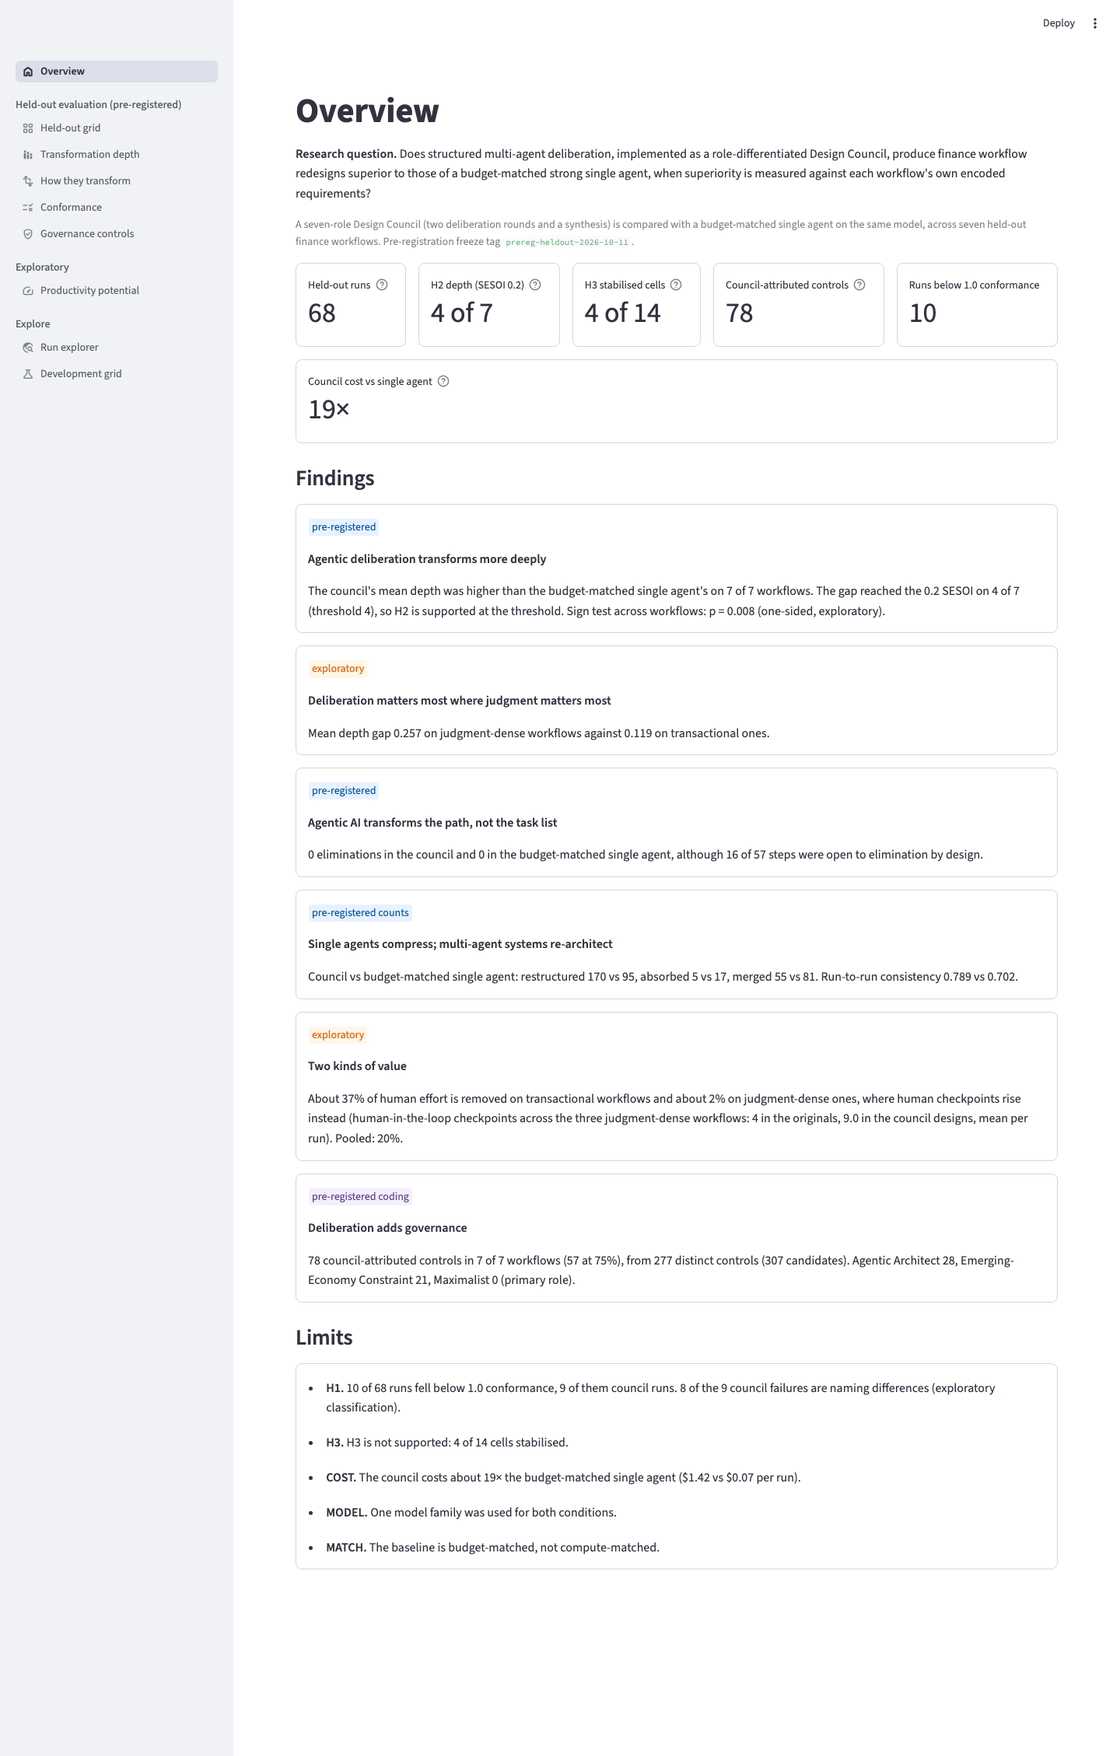
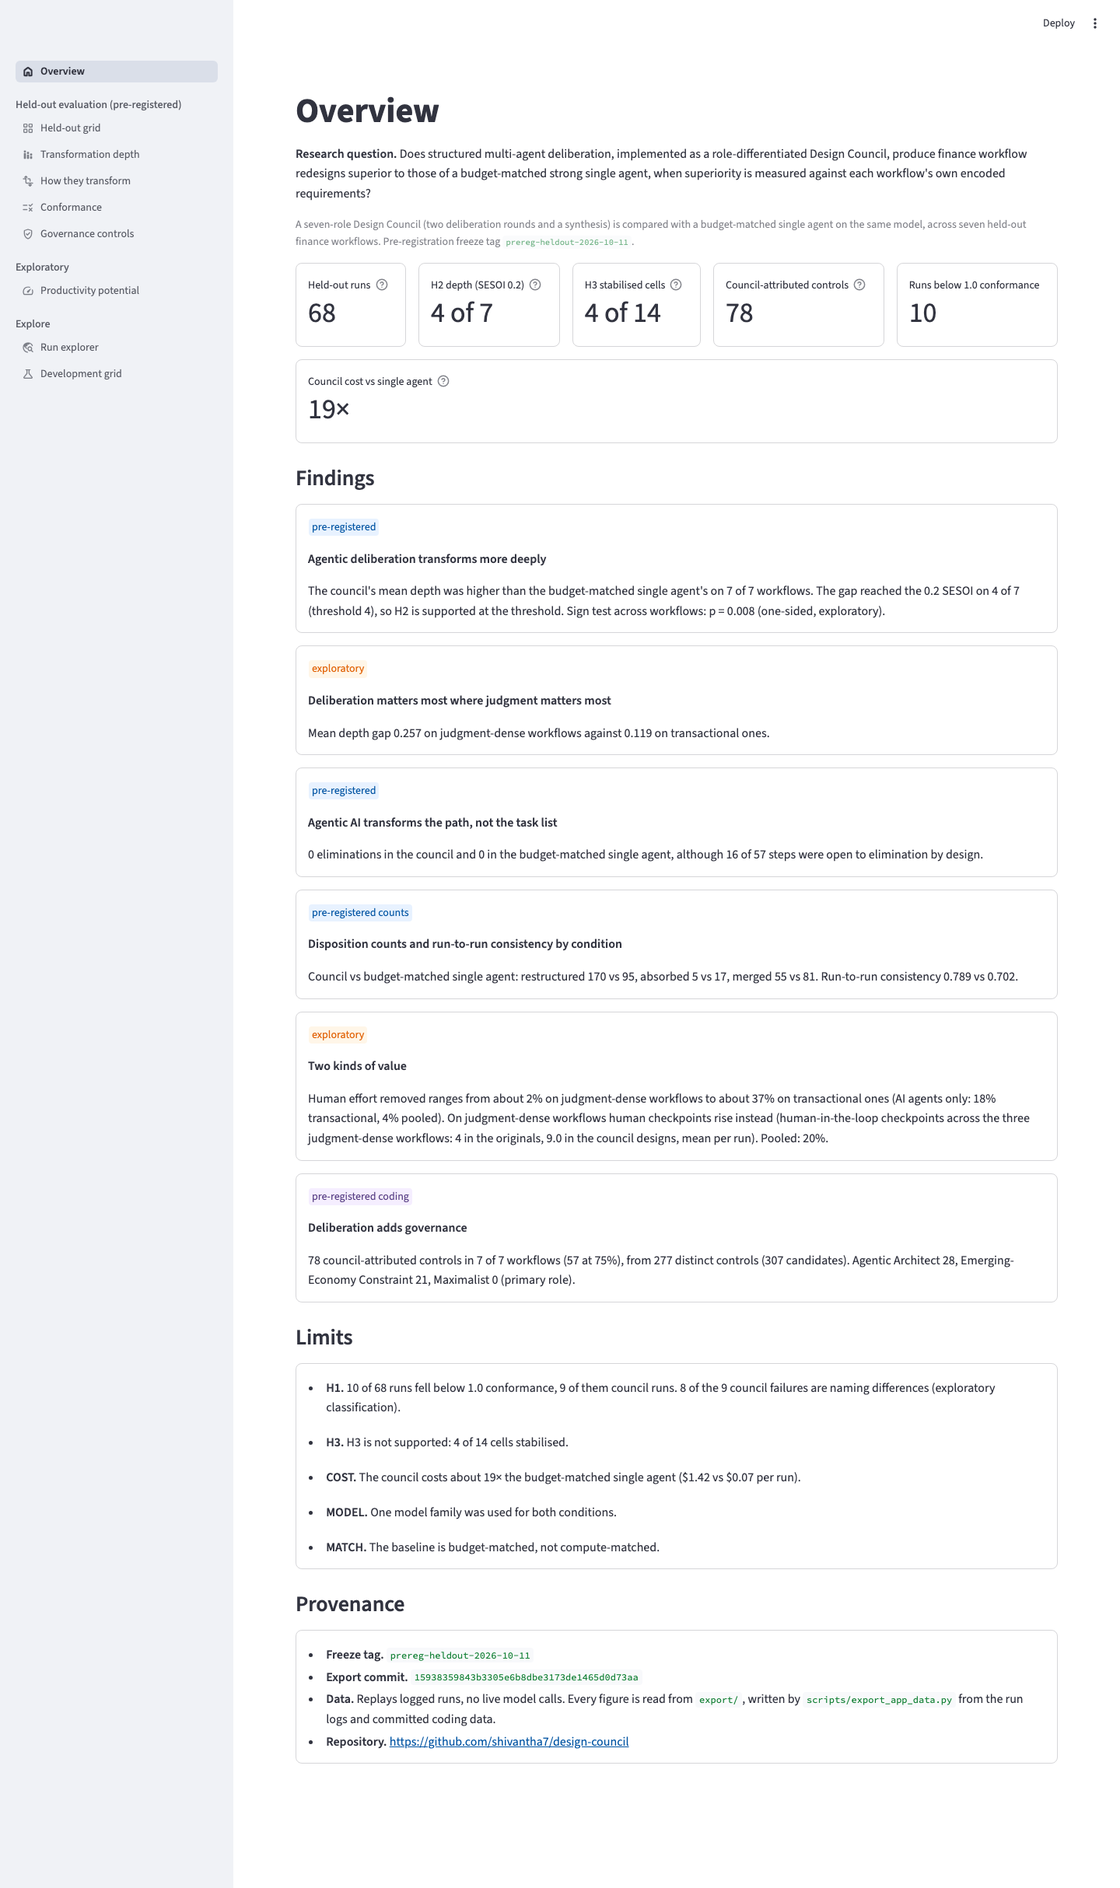
Results app: align with the final dissertation; surface committed analyses
1. export/index.json wording: F4 retitled "Disposition counts and run-to-run
   consistency by condition". F5 leads with the range (about 2% judgment-dense
   to about 37% transactional) with the AI-agents-only figures (18%
   transactional, 4% pooled) beside it. No em dashes (test added). The
   pre-registered/exploratory split against section 8.1 of the dissertation is
   NOT yet applied: the dissertation docx was not available in the repo.
2. Depth page: bootstrap panel for H2 under resampling (bootstrap_h2.json) and
   a recorded-vs-verified depth table with label check rates
   (depth_verification.json). Both marked exploratory. 14-row tables shown in
   full.
3. Governance page: symmetric control counts and length-normalised counts
   (controls_symmetric_length.json) beside the council-attributed table.
4. Overview: provenance block (freeze tag, export commit, "replays logged runs,
   no live model calls", repo URL).
5. scripts/export_app_data.py re-run. The three analysis files written by
   their own scripts are now carried over byte for byte (previously the
   export's rmtree would have deleted them); documented in SCHEMA.md and
   tested. heldout_runs unchanged at 68, held-out and dev run-id lists
   identical, no sequential run picked up, all results files byte-identical.
   Note: export_commit records 1593835, the parent of this commit; the export
   was produced from this commit's working tree before committing.
[…]

diff --git a/scripts/export_app_data.py b/scripts/export_app_data.py
@@ -56,6 +56,14 @@ CONDITIONS = ["council", "baseline"]
 DISPOSITIONS = ["eliminated", "absorbed", "merged", "restructured", "retained"]
 PROBE = "model_resolution_probe"
 EXCERPT = 600
+REPO_URL = "https://github.com/shivantha7/design-council"  # shown on the overview
+# Written into export/results/ by their own analysis scripts (no model calls), not by this one.
+# They are carried over byte for byte so that re-running this export does not delete them.
+CARRIED = {
+    "results/bootstrap_h2.json": "scripts/bootstrap_h2.py",
+    "results/depth_verification.json": "scripts/verify_dispositions.py",
+    "results/controls_symmetric_length.json": "scripts/controls_symmetric_length.py",
+}
 
 
 def load_script(name: str):
@@ -210,8 +218,12 @@ def main() -> int:
     parser.add_argument("--runs-root", type=Path, default=RUNS_ROOT)
     args = parser.parse_args()
     out = args.out
+    carried = {rel: (REPO_ROOT / "export" / rel).read_bytes() for rel in CARRIED}
     if out.exists():
         shutil.rmtree(out)
+    for rel, data in carried.items():
+        (out / rel).parent.mkdir(parents=True, exist_ok=True)
+        (out / rel).write_bytes(data)
 
     eff = load_script("efficiency_heldout")
     prod = load_script("productivity_heldout")
@@ -376,7 +388,8 @@ def main() -> int:
     fi = tables["fill_ins"]
     x3, x4, x5 = tables["x3_depth"], tables["x4_dispositions"], tables["x5_stabilisation"]
     pp = productivity["variants"][PRIMARY]["pooled"]
-    gc = json.loads((out / "results" / "governance_controls.json").read_text())
+    ao = productivity["variants"][AGENTIC_ONLY]["pooled"]
+    gc =json.loads((out / "results" / "governance_controls.json").read_text())
     fails = json.loads((out / "results" / "conformance_failures.json").read_text())["failures"]
     council_fails = [f for f in fails if f["condition"] == "council"]
     deeper = sum(1 for r in x3 if r["gap"] > 0)
@@ -408,17 +421,18 @@ def main() -> int:
          "text": f"{x4['council']['eliminated']} eliminations in the council and {x4['baseline']['eliminated']} in the "
                  f"budget-matched single agent, although {open_steps} of {total_steps} steps were open to elimination "
                  f"by design."},
-        {"id": "F4", "status": "pre-registered counts", "title": "Single agents compress; multi-agent systems re-architect",
+        {"id": "F4", "status": "pre-registered counts", "title": "Disposition counts and run-to-run consistency by condition",
          "text": f"Council vs budget-matched single agent: restructured {x4['council']['restructured']} vs "
                  f"{x4['baseline']['restructured']}, absorbed {x4['council']['absorbed']} vs {x4['baseline']['absorbed']}, "
                  f"merged {x4['council']['merged']} vs {x4['baseline']['merged']}. Run-to-run consistency "
                  f"{cons['council']:.3f} vs {cons['baseline']:.3f}."},
         {"id": "F5", "status": "exploratory", "title": "Two kinds of value",
-         "text": f"About {pct(pp['transactional']['pi'])} of human effort is removed on transactional workflows and "
-                 f"about {pct(pp['judgment-dense']['pi'])} on judgment-dense ones, where human checkpoints rise instead "
-                 f"(human-in-the-loop checkpoints across the three judgment-dense workflows: {hitl_orig} in the "
-                 f"originals, {hitl_council:.1f} in the council designs, mean per run). "
-                 f"Pooled: {pct(pp['all']['pi'])}."},
+         "text": f"Human effort removed ranges from about {pct(pp['judgment-dense']['pi'])} on judgment-dense workflows "
+                 f"to about {pct(pp['transactional']['pi'])} on transactional ones (AI agents only: "
+                 f"{pct(ao['transactional']['pi'])} transactional, {pct(ao['all']['pi'])} pooled). On judgment-dense "
+                 f"workflows human checkpoints rise instead (human-in-the-loop checkpoints across the three "
+                 f"judgment-dense workflows: {hitl_orig} in the originals, {hitl_council:.1f} in the council designs, "
+                 f"mean per run). Pooled: {pct(pp['all']['pi'])}."},
         {"id": "F6", "status": "pre-registered coding", "title": "Deliberation adds governance",
          "text": f"{len(passing)} council-attributed controls in {wf_with_pass} of 7 workflows "
                  f"({sum(c['strict_75'] for c in passing)} at 75%), from {len(controls)} distinct controls "
@@ -443,6 +457,7 @@ def main() -> int:
     index = {
         "export_commit": commit,
         "prereg_tag": started.get("prereg_tag"),
+        "repo_url": REPO_URL,
         "research_question": ("Does structured multi-agent deliberation, implemented as a role-differentiated "
                               "Design Council, produce finance workflow redesigns superior to those of a "
                               "budget-matched strong single agent, when superiority is measured against each "
@@ -482,6 +497,7 @@ bytes. JSON files use sorted keys. Floats are rounded to 6 decimals.
 
 ## index.json
 - `export_commit`: git commit the export was made from. `prereg_tag`: freeze tag of the held-out set.
+  `repo_url`: public repository URL (null until published).
 - `research_question`: verbatim from the dissertation.
 - `sets.heldout-v1`: `label`, `commit` (pinned run commit), `requested_model`, `workflows` (7 ids),
   `runs` (68 run ids), `cells[]` = {`workflow_id`, `condition`, `run_ids` in rep order, `stop_decision`
@@ -541,6 +557,22 @@ council_present, council_n, baseline_present, outcome, strict_75, quote, quote_r
 ## results/dev_grid.json
 v1 development grid per workflow x condition: n, run_ids, depth mean/min/max, conformance mean,
 disposition counts, consistency, mean output tokens.
+
+## Carried over from separate analysis scripts (exploratory, no model calls)
+Not computed by this script. Each is written by its own script into `export/results/` and
+copied here byte for byte, so these files keep that script's formatting (not sorted keys,
+floats unrounded).
+- `results/bootstrap_h2.json` (`scripts/bootstrap_h2.py`, `docs/BOOTSTRAP_H2.md`): H2 rule under
+  resampling of runs within cells. `B`, `seed`, `sesoi`, `need`, and for `reported` (depth as
+  recorded) and `verified` (verified depth): `point_gaps`, `point_pass`, `bootstrap_pass_rate`,
+  `per_workflow_pass_prob`, `gap_95ci`, `count_distribution`, `loo_pass_rate`, `loo_fail_cases`.
+- `results/depth_verification.json` (`scripts/verify_dispositions.py`, `docs/DEPTH_VERIFICATION.md`):
+  disposition labels checked against the TSS. `by_condition` and `overall` label checks, and
+  `cells` ("<workflow>|<condition>": n, depth_reported_mean, depth_verified_mean).
+- `results/controls_symmetric_length.json` (`scripts/controls_symmetric_length.py`,
+  `docs/CONTROLS_SYMMETRIC_LENGTH.md`): the section 6 rule applied in both directions
+  (`symmetric` per workflow) and control counts per TSS length (`length_by_condition`,
+  `length_by_workflow`, `runs`).
 """
 
 

diff --git a/app_pages/depth.py b/app_pages/depth.py
@@ -1,7 +1,7 @@
 import altair as alt
 import streamlit as st
 
-from app_lib.export_data import frame, result
+from app_lib.export_data import exploratory_note, frame, result
 
 t = result("heldout_tables")
 fi = t["fill_ins"]
@@ -50,5 +50,67 @@ st.caption(f"{fi['h3_stabilised_cells']} of 14 cells stabilised against a thresh
 st.dataframe(frame([{"Cell": f"{r['workflow_id']} {r['condition']}", "After 3": r["after_3"],
                      "After 4": r["after_4"], "After 5": float("nan") if r["after_5"] is None else r["after_5"], "Stabilised": r["stabilised"],
                      "Consistency": r["consistency"]} for r in t["x5_stabilisation"]]),
-             hide_index=True, column_config={k: st.column_config.NumberColumn(format="%.3f")
-                                             for k in ("After 3", "After 4", "After 5", "Consistency")})
+             hide_index=True, height="content",
+             column_config={k: st.column_config.NumberColumn(format="%.3f")
+                            for k in ("After 3", "After 4", "After 5", "Consistency")})
+
+st.subheader("H2 under resampling", anchor=False)
+exploratory_note("Bootstrap of the H2 decision rule: runs resampled with replacement within each cell, and the "
+                 "rule (gap ≥ 0.2 on at least 4 of 7 workflows) re-applied to every replicate.")
+b = result("bootstrap_h2")
+st.caption(f"{b['B']:,} replicates, seed {b['seed']}. 'Recorded' uses depth as logged; 'verified' counts only "
+           "non-retained labels that the TSS itself bears out (next section). Leave-one-run-out deletes each of "
+           "the 68 runs in turn.")
+boot_rec, boot_ver, loo_rec, loo_ver = st.columns(4)
+for col, key in ((boot_rec, "reported"), (boot_ver, "verified")):
+    col.metric(f"Bootstrap, {'recorded' if key == 'reported' else 'verified'}",
+               f"{b[key]['bootstrap_pass_rate']:.1%}", border=True,
+               help=f"Point estimate: {b[key]['point_pass']} of 7 workflows meet the SESOI")
+for col, key in ((loo_rec, "reported"), (loo_ver, "verified")):
+    col.metric(f"Leave one out, {'recorded' if key == 'reported' else 'verified'}",
+               f"{b[key]['loo_pass_rate']:.1%}", border=True,
+               help=f"{len(b[key]['loo_fail_cases'])} of 68 single-run deletions make H2 fail")
+
+dist = frame([{"depth": "recorded" if key == "reported" else "verified", "workflows meeting SESOI": int(k),
+               "share of replicates": v}
+              for key in ("reported", "verified") for k, v in b[key]["count_distribution"].items()])
+bars = alt.Chart(dist).mark_bar().encode(
+    x=alt.X("workflows meeting SESOI:O", title="Workflows meeting the SESOI in a replicate",
+               axis=alt.Axis(labelAngle=0)),
+    xOffset="depth:N", y=alt.Y("share of replicates:Q", axis=alt.Axis(format="%"), title="Share of replicates"),
+    color=alt.Color("depth:N", scale=alt.Scale(domain=["recorded", "verified"]), title="Depth"),
+    tooltip=["depth", "workflows meeting SESOI", alt.Tooltip("share of replicates:Q", format=".1%")])
+st.altair_chart(bars, width="stretch")
+st.caption(f"H2 passes in a replicate when at least {b['need']} workflows meet the SESOI.")
+
+st.dataframe(frame([{"Workflow": wf,
+                     **{f"{'Recorded' if key == 'reported' else 'Verified'} {col}": val
+                        for key in ("reported", "verified")
+                        for col, val in (("gap", b[key]["point_gaps"][wf]),
+                                         ("95% interval", "[{:.3f}, {:.3f}]".format(*b[key]["gap_95ci"][wf])),
+                                         ("P(gap ≥ 0.2)", b[key]["per_workflow_pass_prob"][wf]))}}
+                    for wf in order]),
+             hide_index=True, column_config={k: st.column_config.NumberColumn(format="%.3f") for k in
+                                             ("Recorded gap", "Verified gap")}
+             | {k: st.column_config.NumberColumn(format="%.2f") for k in
+                ("Recorded P(gap ≥ 0.2)", "Verified P(gap ≥ 0.2)")})
+
+st.subheader("Recorded and verified depth", anchor=False)
+exploratory_note("Each non-retained disposition label was checked deterministically against the TSS (actor, "
+                 "inputs or position changed). Verified depth counts only the labels that check out.")
+v = result("depth_verification")
+st.caption(f"{v['runs_ok']} successful runs, {v['labels_total']} baseline-step labels; the {v['runs_failed_excluded']} "
+           "failed attempts are excluded from every depth figure.")
+st.dataframe(frame([{"Workflow": k.split("|")[0], "Condition": k.split("|")[1], "Runs": c["n"],
+                     "Depth (recorded)": c["depth_reported_mean"], "Depth (verified)": c["depth_verified_mean"],
+                     "Difference": round(c["depth_verified_mean"] - c["depth_reported_mean"], 3)}
+                    for k, c in sorted(v["cells"].items(), key=lambda kv: order.index(kv[0].split("|")[0]))]),
+             hide_index=True, height="content",
+             column_config={k: st.column_config.NumberColumn(format="%.3f") for k in
+                            ("Depth (recorded)", "Depth (verified)", "Difference")})
+st.dataframe(frame([{"Condition": cond, "Label": lab, "Labels": s["n"], "Verified": s.get("verified"),
+                     "Rate": s.get("rate")}
+                    for cond in ("council", "baseline") for lab, s in v["by_condition"][cond].items()]),
+             hide_index=True, height="content", column_config={"Rate": st.column_config.NumberColumn(format="%.3f")})
+st.caption("For 'retained', verified means consistent: no change in actor, inputs or position. Details in "
+           "docs/DEPTH_VERIFICATION.md.")

diff --git a/app_pages/governance.py b/app_pages/governance.py
@@ -1,7 +1,7 @@
 import altair as alt
 import streamlit as st
 
-from app_lib.export_data import frame, label, result, role
+from app_lib.export_data import exploratory_note, frame, label, result, role
 
 g = result("governance_controls")
 controls = g["controls"]
@@ -30,6 +30,40 @@ with right:
         tooltip=["role", "primary", "any"]), width="stretch")
     st.caption("Primary = first attributed role of the lowest-numbered member candidate. 'Any' counts every role "
                "that proposed the control.")
+
+st.subheader("Symmetric count and length", anchor=False)
+exploratory_note("The section 6 rule applied in both directions, and control counts set against TSS length.")
+sl = result("controls_symmetric_length")
+sym = sl["symmetric"]
+st.dataframe(frame([{"Workflow": wf, "Coded": s["final"], "Council-attributed": s["council_pass"],
+                     "Baseline-attributed": s["baseline_pass"], "Baseline only (any run)": s["baseline_any_no_council"],
+                     "Council only (any run)": s["council_any_no_baseline"], "Both": s["both"]}
+                    for wf, s in sym.items()]), hide_index=True)
+st.caption("Baseline-attributed applies the same rule with the conditions swapped: present in at least 60% of "
+           "baseline runs and in no council run. Candidates came from both conditions' TSSs, but the codebook was "
+           "seeded from council deliberation, so a baseline-only mechanism could be under-represented.")
+
+lc = sl["length_by_condition"]
+with st.container(horizontal=True):
+    for c in ("council", "baseline"):
+        st.metric(f"Controls per 1,000 TSS words ({c})", f"{lc[c]['per_1000_words']:.1f}", border=True,
+                  help=f"Mean per run: {lc[c]['controls']:.1f} controls in {lc[c]['words']:.0f} words, "
+                       f"{lc[c]['per_step']:.2f} per step")
+lw = sl["length_by_workflow"]
+st.dataframe(frame([{"Workflow": wf, "Council words": lw[wf]["council"]["words"],
+                     "Baseline words": lw[wf]["baseline"]["words"],
+                     "Council controls": lw[wf]["council"]["controls"],
+                     "Baseline controls": lw[wf]["baseline"]["controls"],
+                     "Council per 1,000 words": lw[wf]["council"]["per_1000_words"],
+                     "Baseline per 1,000 words": lw[wf]["baseline"]["per_1000_words"]} for wf in sym]),
+             hide_index=True,
+             column_config={**{k: st.column_config.NumberColumn(format="%.0f") for k in ("Council words", "Baseline words")},
+                            **{k: st.column_config.NumberColumn(format="%.1f") for k in ("Council controls", "Baseline controls")},
+                            **{k: st.column_config.NumberColumn(format="%.2f") for k in
+                               ("Council per 1,000 words", "Baseline per 1,000 words")}})
+st.caption("Means per successful run, TSS text only. Council TSSs are about twice as long and carry about twice as "
+           "many distinct controls, so per 1,000 words the two conditions are close. Details in "
+           "docs/CONTROLS_SYMMETRIC_LENGTH.md.")
 
 st.subheader("Drill down", anchor=False)
 with st.container(horizontal=True):

diff --git a/tests/test_export.py b/tests/test_export.py
@@ -42,6 +42,13 @@ def test_export_is_deterministic(exported, tmp_path):
         assert (exported / rel).read_bytes() == (again / rel).read_bytes(), rel
 
 
+def test_analysis_results_are_carried_over(exported):
+    """Files written by the separate analysis scripts survive a re-export unchanged."""
+    for rel in ("results/bootstrap_h2.json", "results/depth_verification.json",
+                "results/controls_symmetric_length.json"):
+        assert (exported / rel).read_bytes() == (REPO_ROOT / "export" / rel).read_bytes(), rel
+
+
 def test_run_counts(exported):
     index = load(exported, "index.json")
     assert len(index["sets"]["heldout-v1"]["runs"]) == 68
@@ -109,8 +116,10 @@ def test_findings_and_limits_match_the_dissertation(exported):
     assert "0 eliminations in the council and 0" in f["F3"]["text"] and "16 of 57 steps" in f["F3"]["text"]
     for s in ("restructured 170 vs 95", "absorbed 5 vs 17", "merged 55 vs 81", "0.789 vs 0.702"):
         assert s in f["F4"]["text"], s
-    for s in ("About 37%", "about 2%", "Pooled: 20%"):
+    for s in ("ranges from about 2%", "to about 37%", "AI agents only: 18% transactional, 4% pooled", "Pooled: 20%"):
         assert s in f["F5"]["text"], s
+    assert "compress" not in f["F4"]["title"]
+    assert not any("—" in x.get("title", "") + x["text"] for x in index["findings"] + index["limits"])
     for s in ("78 council-attributed controls in 7 of 7 workflows (57 at 75%)",
               "from 277 distinct controls (307 candidates)", "Agentic Architect 28",
               "Emerging-Economy Constraint 21", "Maximalist 0"):

diff --git a/app_pages/overview.py b/app_pages/overview.py
@@ -35,3 +35,11 @@ with st.container(border=True):
     for item in idx["limits"]:
         # Escape "$" so amounts are not read as LaTeX.
         st.markdown(f"- **{item['id']}.** " + item["text"].replace("$", "\\$"))
+
+st.subheader("Provenance", anchor=False)
+with st.container(border=True):
+    st.markdown(f"- **Freeze tag.** `{idx['prereg_tag']}`\n"
+                f"- **Export commit.** `{idx['export_commit']}`\n"
+                "- **Data.** Replays logged runs, no live model calls. Every figure is read from `export/`, "
+                "written by `scripts/export_app_data.py` from the run logs and committed coding data.\n"
+                f"- **Repository.** {idx.get('repo_url') or 'not recorded'}")

diff --git a/export/SCHEMA.md b/export/SCHEMA.md
@@ -6,6 +6,7 @@ bytes. JSON files use sorted keys. Floats are rounded to 6 decimals.
 
 ## index.json
 - `export_commit`: git commit the export was made from. `prereg_tag`: freeze tag of the held-out set.
+  `repo_url`: public repository URL (null until published).
 - `research_question`: verbatim from the dissertation.
 - `sets.heldout-v1`: `label`, `commit` (pinned run commit), `requested_model`, `workflows` (7 ids),
   `runs` (68 run ids), `cells[]` = {`workflow_id`, `condition`, `run_ids` in rep order, `stop_decision`
@@ -65,3 +66,19 @@ council_present, council_n, baseline_present, outcome, strict_75, quote, quote_r
 ## results/dev_grid.json
 v1 development grid per workflow x condition: n, run_ids, depth mean/min/max, conformance mean,
 disposition counts, consistency, mean output tokens.
+
+## Carried over from separate analysis scripts (exploratory, no model calls)
+Not computed by this script. Each is written by its own script into `export/results/` and
+copied here byte for byte, so these files keep that script's formatting (not sorted keys,
+floats unrounded).
+- `results/bootstrap_h2.json` (`scripts/bootstrap_h2.py`, `docs/BOOTSTRAP_H2.md`): H2 rule under
+  resampling of runs within cells. `B`, `seed`, `sesoi`, `need`, and for `reported` (depth as
+  recorded) and `verified` (verified depth): `point_gaps`, `point_pass`, `bootstrap_pass_rate`,
+  `per_workflow_pass_prob`, `gap_95ci`, `count_distribution`, `loo_pass_rate`, `loo_fail_cases`.
+- `results/depth_verification.json` (`scripts/verify_dispositions.py`, `docs/DEPTH_VERIFICATION.md`):
+  disposition labels checked against the TSS. `by_condition` and `overall` label checks, and
+  `cells` ("<workflow>|<condition>": n, depth_reported_mean, depth_verified_mean).
+- `results/controls_symmetric_length.json` (`scripts/controls_symmetric_length.py`,
+  `docs/CONTROLS_SYMMETRIC_LENGTH.md`): the section 6 rule applied in both directions
+  (`symmetric` per workflow) and control counts per TSS length (`length_by_condition`,
+  `length_by_workflow`, `runs`).
